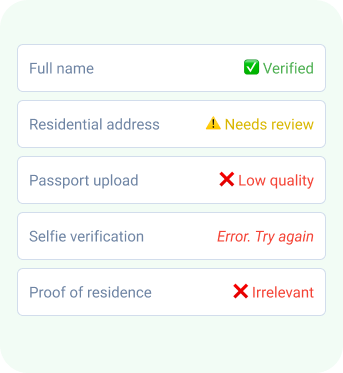
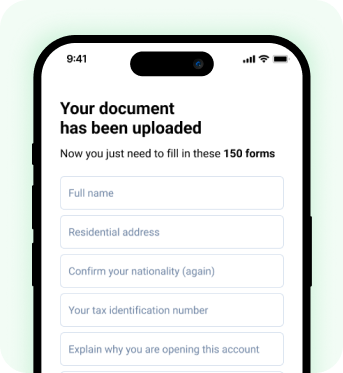
fix: :art: finalized UI changes

Changed region(s): [[0.0583, 0.0885, 0.9329, 1.0], [0.2041, 0.9142, 0.758, 0.9732]]

diff --git a/src/containers/VeriffDataSharingContainer.tsx b/src/containers/VeriffDataSharingContainer.tsx
@@ -177,20 +177,7 @@ export default function VeriffDataSharingContainer({
                 style={styles.container}
                 contentContainerStyle={{ flexGrow: 1, justifyContent: 'space-between' }}
             >
-                {/* Progress bar */}
                 <View>
-                    {reuseKycCount > 1 ? (
-                        <View style={styles.progressBarContainer}>
-                            <View style={styles.progressActive} />
-                            <View style={styles.progressActive} />
-                        </View>
-                    ) : (
-                        <View style={styles.progressBarContainer}>
-                            <View style={styles.progressActive} />
-                            <View style={styles.progressActive} />
-                            <View style={styles.progressActive} />
-                        </View>
-                    )}
                     {/* Top Card */}
                     <View style={styles.card}>
                         <View style={styles.iconRow}>
@@ -199,7 +186,10 @@ export default function VeriffDataSharingContainer({
                             <Image source={{ uri: ssoApp?.logoUrl }} style={styles.appIcon} />
                         </View>
                         <Text style={styles.shareText}>
-                            Share data with <Text style={styles.discord}>{ssoApp?.appName}</Text>
+                            Finish login with <Text style={styles.discord}>{ssoApp?.appName}</Text>
+                        </Text>
+                        <Text style={styles.shareSubText}>
+                            Here's what data {ssoApp?.appName} will receive
                         </Text>
                         <View style={styles.usernameView}>
                             <Text style={styles.username}>@{username}</Text>
@@ -225,8 +215,8 @@ export default function VeriffDataSharingContainer({
 
                                         <Text style={styles.subTitle}>
                                             {reuseKycCount > 1
-                                                ? `KYC data reused ${reuseKycCount} times – saving you ~25 minutes of your previous time`
-                                                : `Your KYC data is now ready for faster login next time`}
+                                                ? `KYC data reused ${reuseKycCount} times - saving you ~25 minutes of your previous time`
+                                                : `Haven't reused your KYC data yet — you're all set for a faster login next time`}
                                         </Text>
                                     </View>
 
@@ -343,6 +333,7 @@ const styles = StyleSheet.create({
     appIcon: { width: 40, height: 40, resizeMode: 'contain' },
     dots: { marginHorizontal: 15, marginBottom: 20, fontSize: 35, color: theme.colors.grey9 },
     shareText: { fontSize: 20, fontWeight: '600', textAlign: 'center' },
+    shareSubText: {fontSize: 16, textAlign: 'center', marginTop:6},
     discord: { color: theme.colors.primary },
     sectionWrapper: { paddingVertical: 9, paddingLeft: 9 },
     usernameView: {
